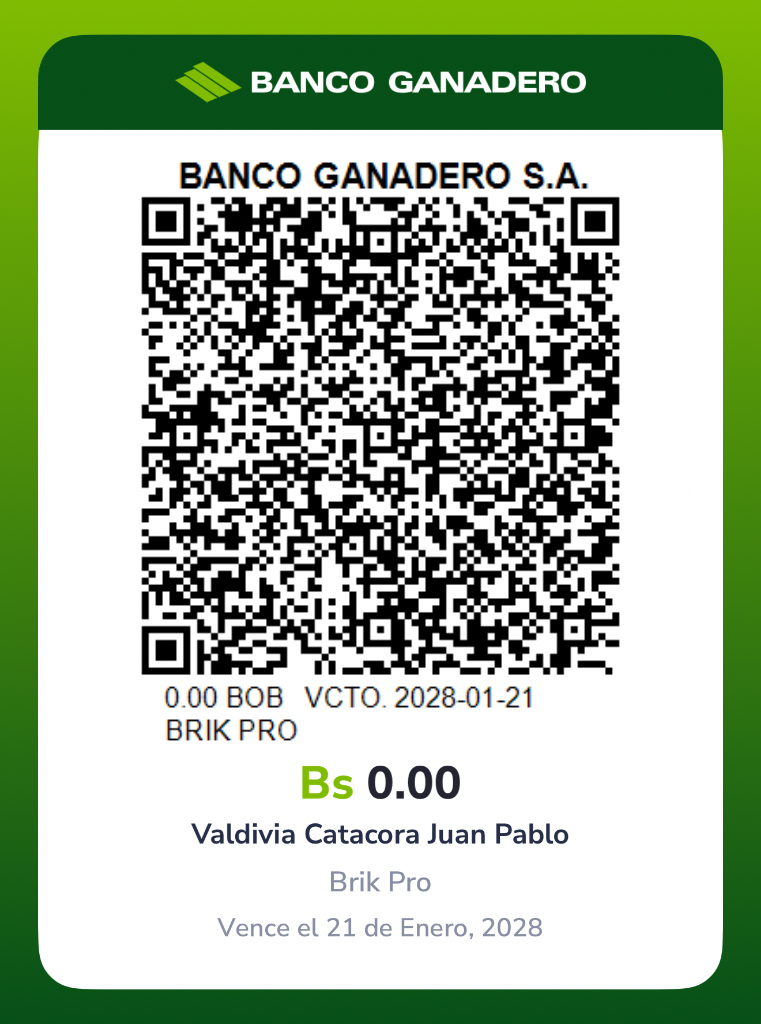
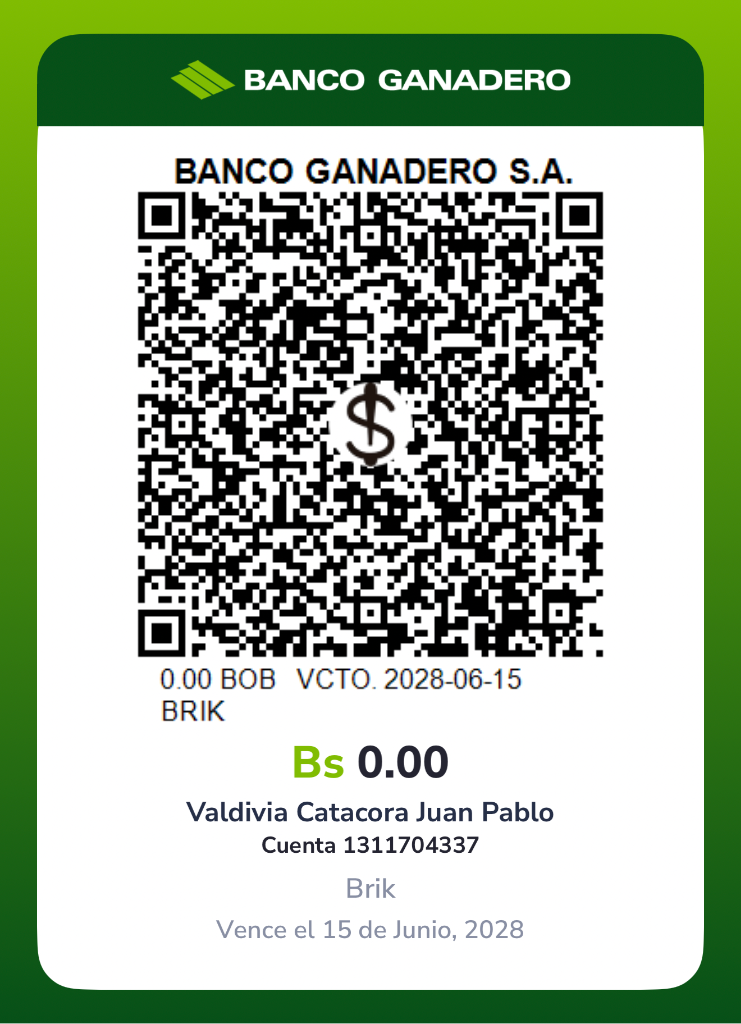
feat: update billing page with detailed features and new QR
- Updated QR code image (Banco Ganadero, valid until 2028)
- Expanded features from 17 to 45 with descriptions
- Grouped by 5 categories: Operaciones, Alertas, Reportes, AI, Admin
- Each feature has tap-to-expand description
- Plan cards show feature highlights and count
- Category headers with emoji icons

Changed region(s): [[0.1862, 0.125, 0.8381, 0.9375], [0.2173, 0.0625, 0.776, 0.125]]

diff --git a/src/components/billing/BillingPage.tsx b/src/components/billing/BillingPage.tsx
@@ -10,34 +10,78 @@ import {
 import { Button } from '@/components/ui/button';
 import { useToast } from '@/hooks/use-toast';
 
-// ─── Plan Definitions ────────────────────────────────────────────────────────
+// ─── Plan Feature Groups ─────────────────────────────────────────────────────
 
 interface PlanFeature {
   name: string;
+  description: string;
   free: boolean | string;
   starter: boolean | string;
   pro: boolean | string;
   enterprise: boolean | string;
+  category: 'ops' | 'alerts' | 'reports' | 'ai' | 'admin';
 }
 
+const FEATURE_CATEGORIES = {
+  ops: { label: 'Operaciones', icon: '🏗', color: 'text-blue-400' },
+  alerts: { label: 'Alertas & Notificaciones', icon: '🔔', color: 'text-amber-400' },
+  reports: { label: 'Reportes & Datos', icon: '📊', color: 'text-green-400' },
+  ai: { label: 'Inteligencia & Automatización', icon: '🤖', color: 'text-purple-400' },
+  admin: { label: 'Administración', icon: '⚙', color: 'text-slate-400' },
+};
+
 const PLAN_FEATURES: PlanFeature[] = [
-  { name: 'Dashboard en vivo', free: true, starter: true, pro: true, enterprise: true },
-  { name: 'Registro entrada/salida', free: true, starter: true, pro: true, enterprise: true },
-  { name: 'Biometría facial', free: true, starter: true, pro: true, enterprise: true },
-  { name: 'Reportes básicos', free: true, starter: true, pro: true, enterprise: true },
-  { name: 'Alertas de favoritos', free: false, starter: true, pro: true, enterprise: true },
-  { name: 'Exportar CSV', free: false, starter: true, pro: true, enterprise: true },
-  { name: 'Historial de alertas', free: false, starter: true, pro: true, enterprise: true },
-  { name: 'Todas las alertas', free: false, starter: false, pro: true, enterprise: true },
-  { name: 'Telegram bot', free: false, starter: false, pro: true, enterprise: true },
-  { name: 'Asistente AI (Brix)', free: false, starter: false, pro: true, enterprise: true },
-  { name: 'Dependientes', free: false, starter: false, pro: true, enterprise: true },
-  { name: 'Fiscalización', free: false, starter: false, pro: true, enterprise: true },
-  { name: 'Reportes avanzados', free: false, starter: false, pro: true, enterprise: true },
-  { name: 'Categorías personalizadas', free: false, starter: false, pro: true, enterprise: true },
-  { name: 'API de integración', free: false, starter: false, pro: false, enterprise: true },
-  { name: 'Multi-obra unificado', free: false, starter: false, pro: false, enterprise: true },
-  { name: 'Soporte dedicado', free: false, starter: false, pro: false, enterprise: true },
+  // ── Operaciones ──
+  { name: 'Dashboard en vivo', description: 'KPIs en tiempo real: personas dentro, entradas del día, contratistas activos', free: true, starter: true, pro: true, enterprise: true, category: 'ops' },
+  { name: 'Registro entrada/salida', description: 'Registro manual por CI o nombre con historial completo', free: true, starter: true, pro: true, enterprise: true, category: 'ops' },
+  { name: 'Biometría facial', description: 'Escaneo de rostro para identificar entrada y salida automática', free: true, starter: true, pro: true, enterprise: true, category: 'ops' },
+  { name: 'Gestión de personal', description: 'Alta, baja y edición de trabajadores y visitantes', free: true, starter: true, pro: true, enterprise: true, category: 'ops' },
+  { name: 'Contratistas múltiples', description: 'Organizar personal por empresa/contratista', free: true, starter: true, pro: true, enterprise: true, category: 'ops' },
+  { name: 'Categorías personalizadas', description: 'Clasificar personal: Albañil, Electricista, Plomero, etc.', free: false, starter: false, pro: true, enterprise: true, category: 'ops' },
+  { name: 'Dependientes / Asalariados', description: 'Marcar y rastrear empleados con seguimiento especial', free: false, starter: false, pro: true, enterprise: true, category: 'ops' },
+  { name: 'Control de capacidad', description: 'Límites mínimo y máximo de personas en obra', free: false, starter: true, pro: true, enterprise: true, category: 'ops' },
+  { name: 'Botón de emergencia', description: 'Alerta instantánea a todos los supervisores', free: true, starter: true, pro: true, enterprise: true, category: 'ops' },
+
+  // ── Alertas & Notificaciones ──
+  { name: 'Alertas de favoritos', description: 'Notificación cuando una persona marcada entra o sale', free: false, starter: true, pro: true, enterprise: true, category: 'alerts' },
+  { name: 'Alertas de bloqueados', description: 'Alerta inmediata si una persona bloqueada intenta ingresar', free: false, starter: true, pro: true, enterprise: true, category: 'alerts' },
+  { name: 'Alertas in-app (push)', description: 'Notificaciones dentro de la aplicación con campana', free: false, starter: true, pro: true, enterprise: true, category: 'alerts' },
+  { name: 'Bot de Telegram', description: 'Recibir todas las alertas directo en tu Telegram personal', free: false, starter: false, pro: true, enterprise: true, category: 'alerts' },
+  { name: 'Alerta de horas extras', description: 'Detecta personas que superan X horas en obra', free: false, starter: false, pro: true, enterprise: true, category: 'alerts' },
+  { name: 'Actividad nocturna', description: 'Alerta de ingresos fuera del horario laboral configurado', free: false, starter: false, pro: true, enterprise: true, category: 'alerts' },
+  { name: 'Rotación inusual', description: 'Detecta persona entrando/saliendo múltiples veces al día', free: false, starter: false, pro: true, enterprise: true, category: 'alerts' },
+  { name: 'Entrada masiva', description: 'Detecta alto flujo de personas en corto tiempo (ingreso matutino)', free: false, starter: false, pro: true, enterprise: true, category: 'alerts' },
+  { name: 'Primera entrada del día', description: 'Notifica quién fue el primero en llegar a la obra', free: false, starter: false, pro: true, enterprise: true, category: 'alerts' },
+  { name: 'Salida sin entrada', description: 'Detecta errores o fraude: alguien sale sin haber entrado', free: false, starter: false, pro: true, enterprise: true, category: 'alerts' },
+  { name: 'Visita de inspector', description: 'Alerta cuando un inspector/fiscalizador ingresa a la obra', free: false, starter: false, pro: true, enterprise: true, category: 'alerts' },
+  { name: 'Asistencia de contratistas', description: 'Alerta si un contratista no envía suficiente personal', free: false, starter: false, pro: true, enterprise: true, category: 'alerts' },
+  { name: 'Resumen semanal', description: 'Comparación automática: entradas, salidas, contratistas y tendencias', free: false, starter: false, pro: true, enterprise: true, category: 'alerts' },
+  { name: 'Accidente reportado', description: 'Botón de emergencia con alerta inmediata a todo el equipo', free: false, starter: false, pro: true, enterprise: true, category: 'alerts' },
+  { name: 'Dependiente ingresó/salió', description: 'Seguimiento en tiempo real de asalariados marcados', free: false, starter: false, pro: true, enterprise: true, category: 'alerts' },
+  { name: 'Cumpleaños en obra', description: 'Notificación de trabajadores que cumplen años hoy', free: false, starter: false, pro: true, enterprise: true, category: 'alerts' },
+
+  // ── Reportes & Datos ──
+  { name: 'Reportes básicos', description: 'Ver listado de entradas y salidas del día', free: true, starter: true, pro: true, enterprise: true, category: 'reports' },
+  { name: 'Exportar CSV', description: 'Descargar datos en Excel/CSV para análisis externo', free: false, starter: true, pro: true, enterprise: true, category: 'reports' },
+  { name: 'Historial de alertas', description: 'Registro completo de todas las alertas enviadas', free: false, starter: true, pro: true, enterprise: true, category: 'reports' },
+  { name: 'Estadísticas avanzadas', description: 'Gráficos de asistencia por hora, día, contratista y tendencias', free: false, starter: false, pro: true, enterprise: true, category: 'reports' },
+  { name: 'Reportes PDF', description: 'Generar informes profesionales para fiscalización', free: false, starter: false, pro: true, enterprise: true, category: 'reports' },
+  { name: 'Auditoría completa', description: 'Log detallado de todas las acciones: quién hizo qué y cuándo', free: false, starter: false, pro: true, enterprise: true, category: 'reports' },
+  { name: 'Control de fiscalización', description: 'Notas de inspección con fotos y seguimiento', free: false, starter: false, pro: true, enterprise: true, category: 'reports' },
+
+  // ── Inteligencia & Automatización ──
+  { name: 'Asistente AI (Brix)', description: 'Chat inteligente: pregunta datos de la obra en lenguaje natural', free: false, starter: false, pro: true, enterprise: true, category: 'ai' },
+  { name: 'Bot Telegram inteligente', description: 'Consulta datos y registra acciones desde Telegram con AI', free: false, starter: false, pro: true, enterprise: true, category: 'ai' },
+  { name: 'Detección de patrones', description: 'Análisis automático de tendencias y anomalías', free: false, starter: false, pro: true, enterprise: true, category: 'ai' },
+  { name: 'Importación masiva', description: 'Carga de nóminas completas por Excel/CSV', free: false, starter: true, pro: true, enterprise: true, category: 'ai' },
+
+  // ── Administración ──
+  { name: 'Gestión de usuarios', description: 'Invitar guardias, supervisores e inspectores', free: true, starter: true, pro: true, enterprise: true, category: 'admin' },
+  { name: 'Roles y permisos', description: '4 roles: Owner, Supervisor, Guardia, Inspector', free: true, starter: true, pro: true, enterprise: true, category: 'admin' },
+  { name: 'Multi-obra', description: 'Gestionar múltiples obras desde una sola cuenta', free: false, starter: false, pro: false, enterprise: true, category: 'admin' },
+  { name: 'API de integración', description: 'Conexión con sistemas externos vía API REST', free: false, starter: false, pro: false, enterprise: true, category: 'admin' },
+  { name: 'Soporte dedicado', description: 'Atención prioritaria con SLA garantizado', free: false, starter: false, pro: false, enterprise: true, category: 'admin' },
+  { name: 'WhatsApp empresarial', description: 'Bot de WhatsApp para tu equipo (próximamente)', free: false, starter: false, pro: false, enterprise: true, category: 'admin' },
 ];
 
 const PLANS = [
@@ -211,6 +255,15 @@ function PlanCard({
 }) {
   const isCurrent = plan.id === currentPlan;
   const Icon = plan.icon;
+  const includedCount = PLAN_FEATURES.filter(f => f[plan.id] === true).length;
+
+  // Key highlights per plan
+  const highlights: Record<string, string[]> = {
+    free: ['Dashboard en vivo', 'Biometría facial', 'Entrada/salida', 'Gestión básica'],
+    starter: ['+ Alertas de favoritos', '+ Exportar CSV', '+ Control de capacidad', '+ Importación masiva'],
+    pro: ['+ 16 alertas avanzadas', '+ Bot Telegram', '+ Asistente AI (Brix)', '+ Fiscalización y reportes PDF'],
+    enterprise: ['+ API de integración', '+ Multi-obra', '+ WhatsApp bot', '+ Soporte dedicado'],
+  };
 
   return (
     <button
@@ -240,7 +293,7 @@ function PlanCard({
         </div>
       )}
 
-      <div className="flex items-start justify-between mb-3">
+      <div className="flex items-start justify-between mb-2">
         <div className="flex items-center gap-2.5">
           <div className={`w-9 h-9 rounded-xl bg-gradient-to-br ${plan.gradient} flex items-center justify-center shadow-lg`}>
             <Icon className="w-4.5 h-4.5 text-white" strokeWidth={1.8} />
@@ -263,10 +316,30 @@ function PlanCard({
         </div>
       </div>
 
+      {/* Feature highlights */}
+      <div className="flex flex-wrap gap-1 mb-2.5">
+        {(highlights[plan.id] || []).map((hl, i) => (
+          <span
+            key={i}
+            className={`text-[10px] px-2 py-0.5 rounded-full ${
+              hl.startsWith('+')
+                ? `${plan.bgColor} ${plan.textColor} border border-current/20`
+                : 'bg-white/5 text-white/40'
+            }`}
+          >
+            {hl}
+          </span>
+        ))}
+      </div>
+
       <div className="flex items-center justify-between">
-        <span className="text-[11px] text-white/50">
-          {plan.limit === 999999 ? 'Registros ilimitados' : `${plan.limit.toLocaleString()} registros/mes`}
-        </span>
+        <div className="flex items-center gap-2">
+          <span className="text-[11px] text-white/50">
+            {plan.limit === 999999 ? 'Ilimitado' : `${plan.limit.toLocaleString()} reg/mes`}
+          </span>
+          <span className="text-[10px] text-white/25">·</span>
+          <span className="text-[10px] text-white/30">{includedCount} funciones</span>
+        </div>
         {!isCurrent && plan.id !== 'free' && (
           <span className={`text-[11px] font-medium ${plan.textColor} flex items-center gap-1`}>
             {currentPlan === 'free' || 
@@ -281,72 +354,127 @@ function PlanCard({
   );
 }
 
-// ─── Feature Comparison Table ────────────────────────────────────────────────
-
 function FeatureComparison({ currentPlan }: { currentPlan: string }) {
   const [expanded, setExpanded] = useState(false);
-  const visibleFeatures = expanded ? PLAN_FEATURES : PLAN_FEATURES.slice(0, 7);
+  const [expandedFeature, setExpandedFeature] = useState<string | null>(null);
+
+  // Group features by category
+  const categories = Object.entries(FEATURE_CATEGORIES) as [keyof typeof FEATURE_CATEGORIES, typeof FEATURE_CATEGORIES[keyof typeof FEATURE_CATEGORIES]][];
+  
+  // Count features per plan
+  const countFeatures = (planId: 'free' | 'starter' | 'pro' | 'enterprise') =>
+    PLAN_FEATURES.filter(f => f[planId] === true).length;
 
   return (
     <div className="rounded-2xl border border-white/10 bg-white/[0.03] overflow-hidden">
       <div className="p-4 border-b border-white/10">
         <h3 className="text-sm font-semibold text-white flex items-center gap-2">
           <BarChart3 className="w-4 h-4 text-purple-400" />
-          Comparación de planes
+          Comparación completa de planes
         </h3>
+        <p className="text-[11px] text-white/40 mt-1">
+          {PLAN_FEATURES.length} funciones en total · Toca una función para ver detalles
+        </p>
       </div>
       
-      {/* Header */}
-      <div className="grid grid-cols-5 gap-0 px-4 py-2.5 bg-white/[0.02] border-b border-white/5">
+      {/* Plan header with feature counts */}
+      <div className="grid grid-cols-5 gap-0 px-3 py-2.5 bg-white/[0.02] border-b border-white/5 sticky top-0">
         <div className="col-span-1" />
         {PLANS.map(plan => (
           <div key={plan.id} className="text-center">
-            <span className={`text-[10px] font-semibold ${plan.id === currentPlan ? plan.textColor : 'text-white/50'}`}>
+            <span className={`text-[10px] font-semibold block ${plan.id === currentPlan ? plan.textColor : 'text-white/50'}`}>
               {plan.name}
+            </span>
+            <span className="text-[9px] text-white/25">
+              {countFeatures(plan.id as any)}/{PLAN_FEATURES.length}
             </span>
           </div>
         ))}
       </div>
 
-      {/* Rows */}
-      {visibleFeatures.map((feature, i) => (
-        <div
-          key={feature.name}
-          className={`grid grid-cols-5 gap-0 px-4 py-2 ${i % 2 === 0 ? 'bg-white/[0.01]' : ''} border-b border-white/[0.03]`}
-        >
-          <div className="col-span-1 flex items-center">
-            <span className="text-[11px] text-white/60">{feature.name}</span>
-          </div>
-          {(['free', 'starter', 'pro', 'enterprise'] as const).map(planId => {
-            const val = feature[planId];
-            const isCurrent = planId === currentPlan;
-            return (
-              <div key={planId} className="flex items-center justify-center">
-                {val === true ? (
-                  <Check className={`w-3.5 h-3.5 ${isCurrent ? 'text-green-400' : 'text-white/30'}`} />
-                ) : val === false ? (
-                  <X className="w-3.5 h-3.5 text-white/10" />
-                ) : (
-                  <span className="text-[10px] text-white/40">{val}</span>
-                )}
+      {/* Grouped features */}
+      {categories.map(([catKey, catInfo], catIndex) => {
+        const catFeatures = PLAN_FEATURES.filter(f => f.category === catKey);
+        // When collapsed, only show first 2 categories (ops + a few alerts)
+        if (!expanded && catIndex > 1) return null;
+        const visibleCatFeatures = !expanded && catIndex === 1 ? catFeatures.slice(0, 3) : catFeatures;
+
+        return (
+          <div key={catKey}>
+            {/* Category header */}
+            <div className="grid grid-cols-5 gap-0 px-3 py-2 bg-white/[0.04] border-b border-white/[0.06]">
+              <div className="col-span-5 flex items-center gap-1.5">
+                <span className="text-sm">{catInfo.icon}</span>
+                <span className={`text-[11px] font-semibold ${catInfo.color}`}>{catInfo.label}</span>
+                <span className="text-[10px] text-white/25 ml-auto">{catFeatures.length} funciones</span>
               </div>
-            );
-          })}
-        </div>
-      ))}
+            </div>
+
+            {/* Feature rows */}
+            {visibleCatFeatures.map((feature, i) => {
+              const isExpanded = expandedFeature === feature.name;
+              return (
+                <div key={feature.name}>
+                  <button
+                    onClick={() => setExpandedFeature(isExpanded ? null : feature.name)}
+                    className={`w-full grid grid-cols-5 gap-0 px-3 py-2 text-left transition-colors ${
+                      i % 2 === 0 ? 'bg-white/[0.01]' : ''
+                    } ${isExpanded ? 'bg-white/[0.04]' : 'hover:bg-white/[0.03]'} border-b border-white/[0.03]`}
+                  >
+                    <div className="col-span-1 flex items-center pr-1">
+                      <span className={`text-[11px] leading-tight ${isExpanded ? 'text-white' : 'text-white/60'}`}>
+                        {feature.name}
+                      </span>
+                    </div>
+                    {(['free', 'starter', 'pro', 'enterprise'] as const).map(planId => {
+                      const val = feature[planId];
+                      const isCurrent = planId === currentPlan;
+                      return (
+                        <div key={planId} className="flex items-center justify-center">
+                          {val === true ? (
+                            <div className={`w-5 h-5 rounded-full flex items-center justify-center ${
+                              isCurrent ? 'bg-green-500/20' : 'bg-white/5'
+                            }`}>
+                              <Check className={`w-3 h-3 ${isCurrent ? 'text-green-400' : 'text-white/40'}`} />
+                            </div>
+                          ) : val === false ? (
+                            <div className="w-5 h-5 rounded-full flex items-center justify-center">
+                              <span className="w-1.5 h-0.5 bg-white/10 rounded-full" />
+                            </div>
+                          ) : (
+                            <span className="text-[10px] text-white/40">{val}</span>
+                          )}
+                        </div>
+                      );
+                    })}
+                  </button>
+                  {/* Expanded description */}
+                  {isExpanded && (
+                    <div className="px-3 py-2 bg-white/[0.04] border-b border-white/[0.06]">
+                      <p className="text-[11px] text-white/50 leading-relaxed pl-1">
+                        💡 {feature.description}
+                      </p>
+                    </div>
+                  )}
+                </div>
+              );
+            })}
+          </div>
+        );
+      })}
 
       {/* Expand toggle */}
       <button
         onClick={() => setExpanded(!expanded)}
-        className="w-full flex items-center justify-center gap-1.5 py-2.5 text-[11px] text-white/40 hover:text-white/60 transition-colors"
+        className="w-full flex items-center justify-center gap-1.5 py-3 text-[11px] font-medium text-purple-400 hover:text-purple-300 transition-colors bg-white/[0.02]"
       >
         {expanded ? (
           <>
-            Ver menos <ChevronUp className="w-3 h-3" />
+            Mostrar menos <ChevronUp className="w-3 h-3" />
           </>
         ) : (
           <>
-            Ver todas las funciones ({PLAN_FEATURES.length}) <ChevronDown className="w-3 h-3" />
+            Ver las {PLAN_FEATURES.length} funciones completas <ChevronDown className="w-3 h-3" />
           </>
         )}
       </button>
